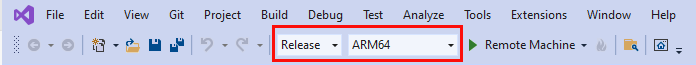
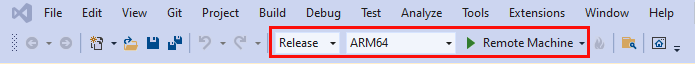
more-edits-080422-1319

Changed region(s): [[0.0, 0.375, 1.0, 1.0], [0.0, 0.0625, 0.9065, 0.375], [0.9367, 0.0312, 1.0, 0.375]]

diff --git a/mixed-reality-docs/mr-dev-docs/develop/unity/use-pc-resources.md b/mixed-reality-docs/mr-dev-docs/develop/unity/use-pc-resources.md
@@ -96,10 +96,10 @@ To use Holographic Remoting in both modes specified above, you need to clone [Ho
     ![Screen shot of the Visual Studio build settings for if the user building to the HoloLens using Wifi.](images/041-build-settings-for-wifi.png)
 
     - Open the **Properties** page for the project, and then navigate to **Configuration Properties** > **Debugging**.
-    - Click the **Debugger to launch** drop-down, and then select **Device**.
-    - In the **Command Line Arguments** field, add "-listen".
+    - Click the **Debugger to launch** drop-down, and then select **Remote Machine**.
+    - In the **Command Line Arguments** field, add the Wifi IP address of the HoloLens.
 
-    ![Screen shot of the Machine Name build settings for if the user building to the HoloLens using Wifi.](images/042-connect-via-wifi.png)
+    ![Screen shot of the Machine Name build settings for if the user building to the HoloLens using Wifi.](images/043-ip-address-host-machine.png)
 
 1. To deploy the SamplePlayer solution to the HoloLens 2, press the play button in Visual Studio. You'll be able to see the HAR Sample player running on HoloLens 2, displaying that it's "Waiting for a connection on IP address of HoloLens 2."
 
